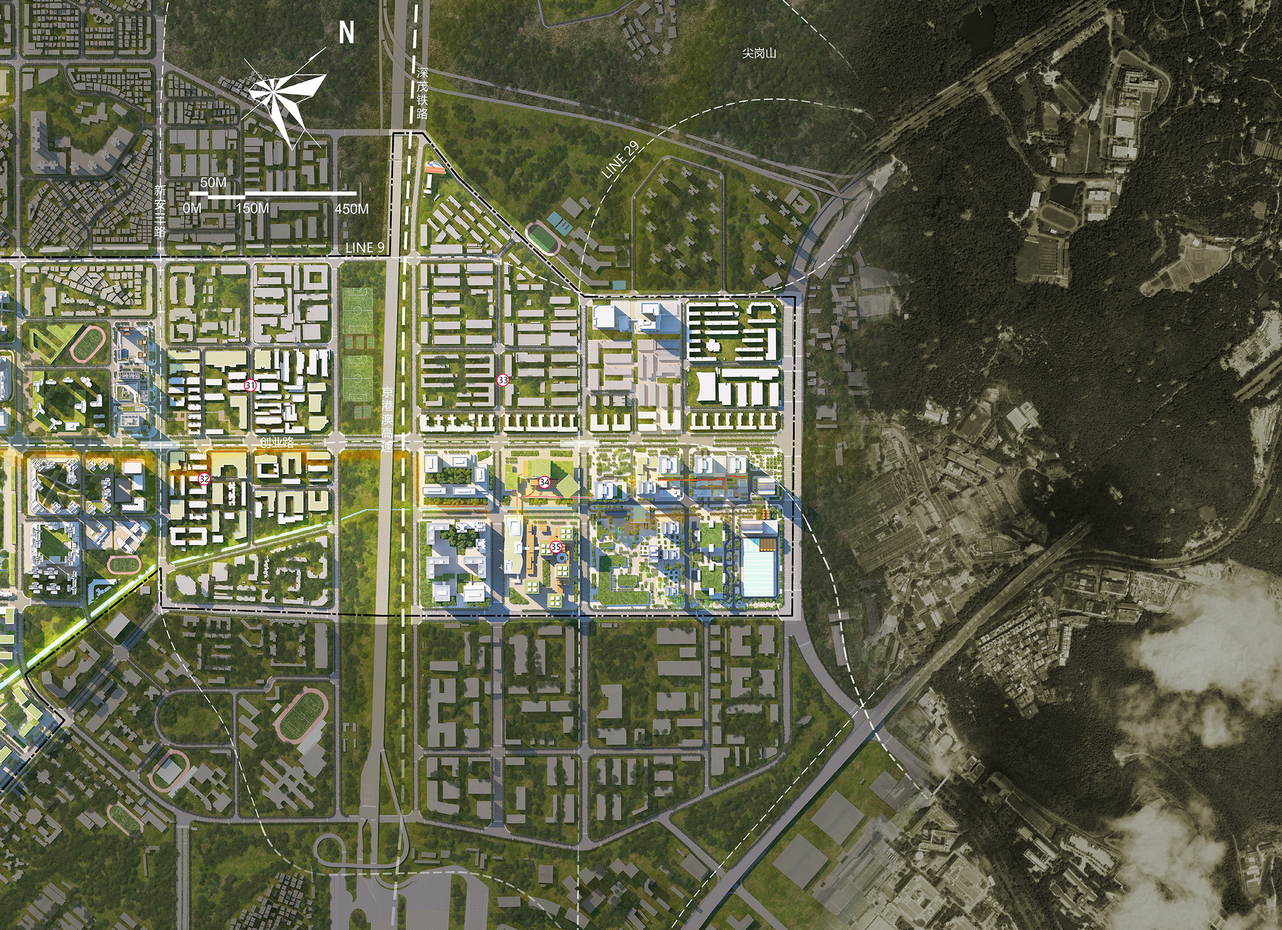
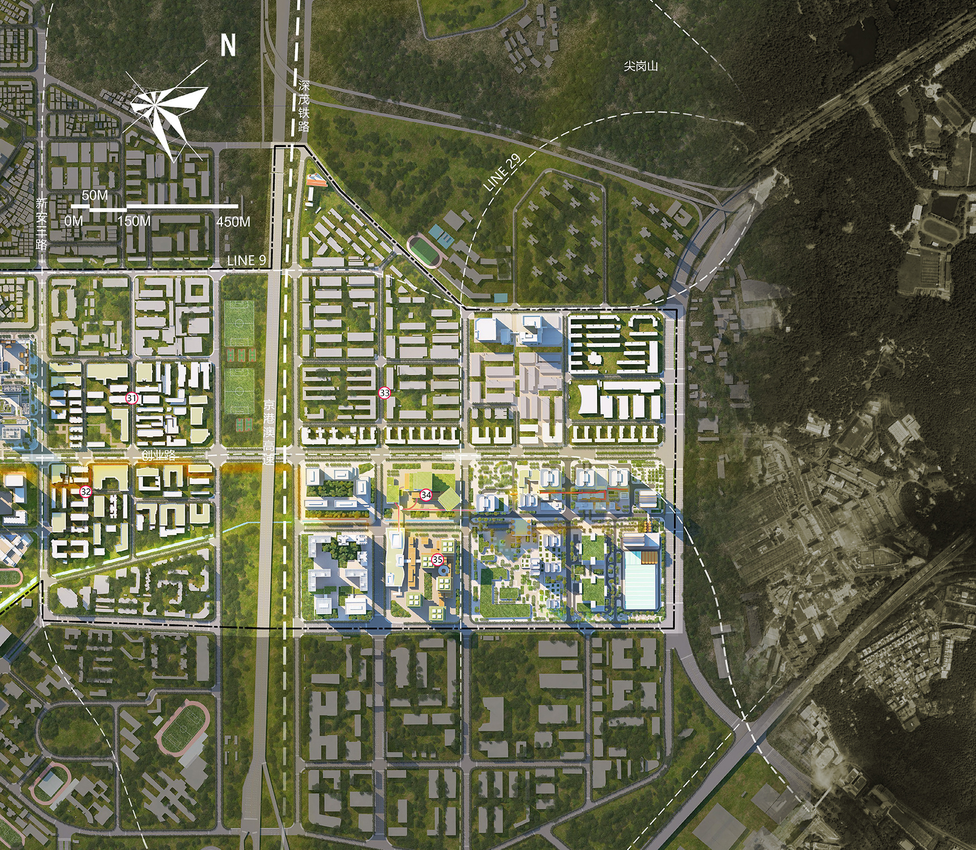
Recrop Jiangangshan to match reference framing

diff --git a/index.html b/index.html
@@ -192,7 +192,7 @@
 .ov-wrap-circles .ov-bottom{text-align:center;padding-top:2px}
 
 
-.district-jgs .map-pane img{object-fit:cover!important;object-position:28% 45%!important}
+.district-jgs .map-pane img{object-fit:cover!important;object-position:center center!important}
 .district-jgs .map-pane{background:#111}
 
 
@@ -575,7 +575,7 @@
   <div class="district-eyebrow">三区结构　04 / 04 · 山心</div>
   <div class="district-layout">
     <div class="map-pane">
-      <img src="assets/map-jiangangshan.jpg?v=4" alt="尖岗山片区地图">
+      <img src="assets/map-jiangangshan.jpg?v=5" alt="尖岗山片区地图">
     </div>
     <aside class="side-panel">
       <div class="side-inner">
